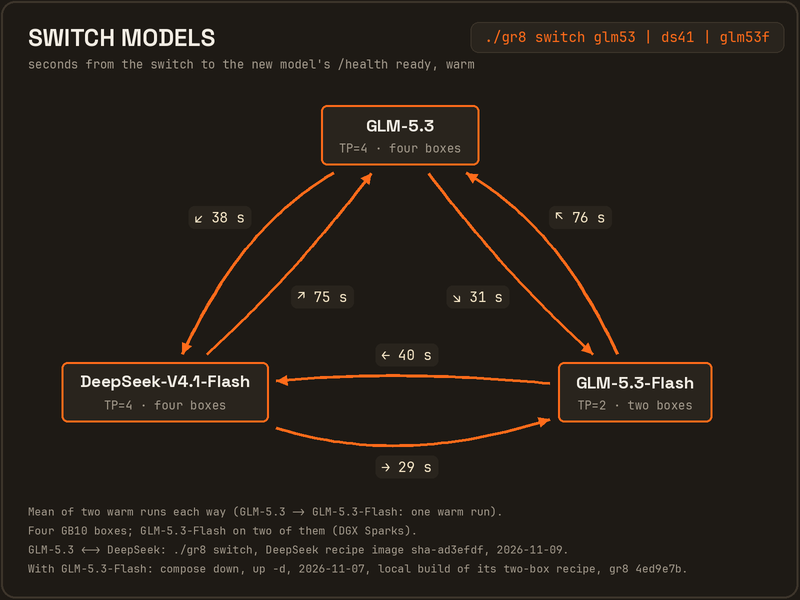
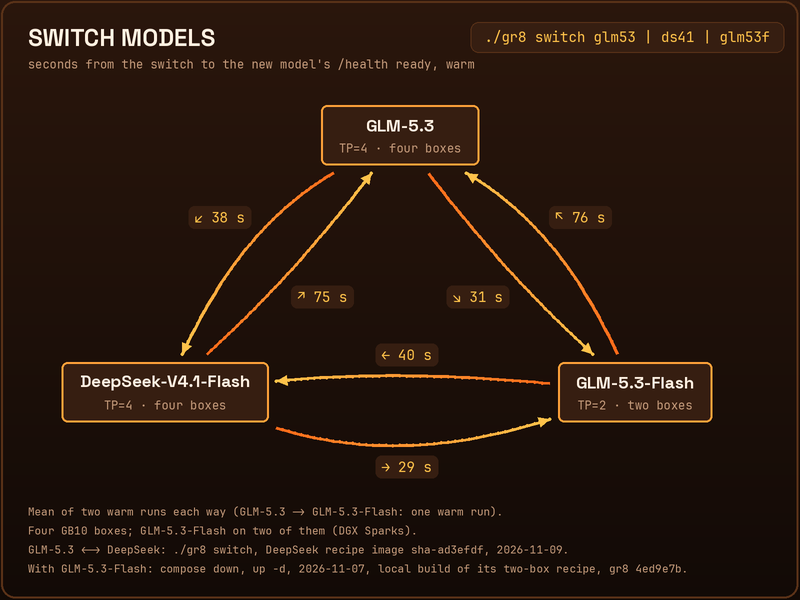
switch card: the ember palette (orange-to-amber arrows, amber numbers)

diff --git a/docs/cards/switch_card.py b/docs/cards/switch_card.py
@@ -16,8 +16,9 @@ from pathlib import Path
 from PIL import Image, ImageDraw, ImageFont
 
 W, H, S = 800, 600, 2                   # drawn at S times the size, then scaled down: smooth lines
-BG, PANEL, LINE = '#1E1A15', '#29241D', '#3D352B'   # the warm charcoal of the results cards (bench/gif.py)
-TEXT, MUTED, ORANGE, CREAM = '#F2EDE4', '#A39A8C', '#FF6B1A', '#F6E7C8'
+BG_TOP, BG_BOTTOM, PANEL, LINE = '#2A160C', '#120A06', '#361E11', '#5A3218'   # ember: dark brown to near black
+TEXT, MUTED, CHIP = '#FFF1E2', '#C49A7A', '#FFA23A'
+ORANGE, AMBER = '#FF6B1A', '#FFC24A'    # Kindling orange and amber, as in bench/gif.py
 BOW_OUT, BOW_IN = 0.16, 0.048           # curve depth as a share of the chip distance; inner arrows bow less
 MONO = ['JetBrainsMono-Regular.ttf', 'JetBrainsMono[wght].ttf', 'DejaVuSansMono.ttf']
 DISPLAY = ['SpaceGrotesk-Bold.ttf', 'SpaceGrotesk[wght].ttf', 'DejaVuSans-Bold.ttf']
@@ -60,9 +61,23 @@ def bezier(p0, c, p1, t):
             (1 - t) ** 2 * p0[1] + 2 * (1 - t) * t * c[1] + t * t * p1[1])
 
 
-def curved_arrow(dr, p0, ctrl, p1, width, color):
+def rgb(h):
+    return tuple(int(h[i:i + 2], 16) for i in (1, 3, 5))
+
+
+def mix(a, b, t):
+    return tuple(round(x + (y - x) * t) for x, y in zip(rgb(a), rgb(b)))
+
+
+def curved_arrow(dr, p0, ctrl, p1, width):
+    """orange where the switch starts, amber at the head"""
     pts = [bezier(p0, ctrl, p1, i / 40) for i in range(41)]
-    dr.line(pts, fill=color, width=width, joint='curve')
+    for i in range(40):
+        c = mix(ORANGE, AMBER, i / 39)
+        dr.line(pts[i:i + 2], fill=c, width=width)
+        x, y = pts[i + 1]
+        dr.ellipse([x - width / 2, y - width / 2, x + width / 2, y + width / 2], fill=c)
+    color = AMBER
     b, a = pts[-1], pts[-3]
     ang = math.atan2(b[1] - a[1], b[0] - a[0])
     L, sp = 12 * S, 0.45
@@ -83,7 +98,7 @@ def label(dr, anchor, nrm, gap, text, f):
     x = anchor[0] + nrm[0] * (gap + reach) - w / 2
     y = anchor[1] + nrm[1] * (gap + reach) - h / 2
     dr.rounded_rectangle([x - pad, y - pad, x + w + pad, y + h + pad], radius=6 * S, fill=PANEL)
-    dr.text((x - l, y - t), text, font=f, fill=CREAM)
+    dr.text((x - l, y - t), text, font=f, fill=AMBER)
 
 
 def draw(doc, out, mono_path=None, display_path=None):
@@ -92,8 +107,10 @@ def draw(doc, out, mono_path=None, display_path=None):
         sys.exit('switch_card.py: the card draws exactly three models')
     title_f, chip_f = font(display_path, DISPLAY, 24), font(display_path, DISPLAY, 17)
     small_f, num_f, note_f = font(mono_path, MONO, 12), font(mono_path, MONO, 14), font(mono_path, MONO, 11)
-    im = Image.new('RGB', (W * S, H * S), BG)
+    im = Image.new('RGB', (W * S, H * S))
     dr = ImageDraw.Draw(im)
+    for y in range(H * S):
+        dr.line([(0, y), (W * S, y)], fill=mix(BG_TOP, BG_BOTTOM, y / (H * S)))
     dr.rounded_rectangle([1 * S, 1 * S, (W - 2) * S, (H - 2) * S], radius=14 * S, outline=LINE, width=2 * S)
     dr.text((28 * S, 22 * S), doc['title'].upper(), font=title_f, fill=TEXT)
     dr.text((28 * S, 56 * S), doc['subtitle'], font=small_f, fill=MUTED)
@@ -102,7 +119,7 @@ def draw(doc, out, mono_path=None, display_path=None):
     x, y = (W - 30) * S - w, 30 * S
     dr.rounded_rectangle([x - 14 * S, y - 8 * S, x + w + 14 * S, y + h + 8 * S], radius=8 * S,
                          fill=PANEL, outline=LINE, width=S)
-    dr.text((x - l, y - t), doc['command'], font=num_f, fill=ORANGE)
+    dr.text((x - l, y - t), doc['command'], font=num_f, fill=AMBER)
 
     ids = [m['id'] for m in doc['models']]
     centre = {ids[0]: (400 * S, 135 * S), ids[1]: (165 * S, 392 * S), ids[2]: (635 * S, 392 * S)}
@@ -125,12 +142,12 @@ def draw(doc, out, mono_path=None, display_path=None):
         ctrl = (m0[0] + nrm[0] * k, m0[1] + nrm[1] * k)
         p0 = edge_point(a, (half[sw['from']][0] + 8 * S, half[sw['from']][1] + 8 * S), (ctrl[0] - a[0], ctrl[1] - a[1]))
         p1 = edge_point(b, (half[sw['to']][0] + 8 * S, half[sw['to']][1] + 8 * S), (ctrl[0] - b[0], ctrl[1] - b[1]))
-        curved_arrow(dr, p0, ctrl, p1, 3 * S, ORANGE)
+        curved_arrow(dr, p0, ctrl, p1, 3 * S)
         label(dr, bezier(p0, ctrl, p1, 0.5), nrm, 10 * S, glyph(u) + ' ' + seconds(sw['seconds']), num_f)
 
     for i in ids:
         (cx, cy), (hw, hh) = centre[i], half[i]
-        dr.rounded_rectangle([cx - hw, cy - hh, cx + hw, cy + hh], radius=6 * S, fill=PANEL, outline=ORANGE,
+        dr.rounded_rectangle([cx - hw, cy - hh, cx + hw, cy + hh], radius=6 * S, fill=PANEL, outline=CHIP,
                              width=2 * S)
         m = models[i]
         for text, f, color, dy in ((m['name'], chip_f, TEXT, -9 * S), (m['detail'], small_f, MUTED, 13 * S)):
